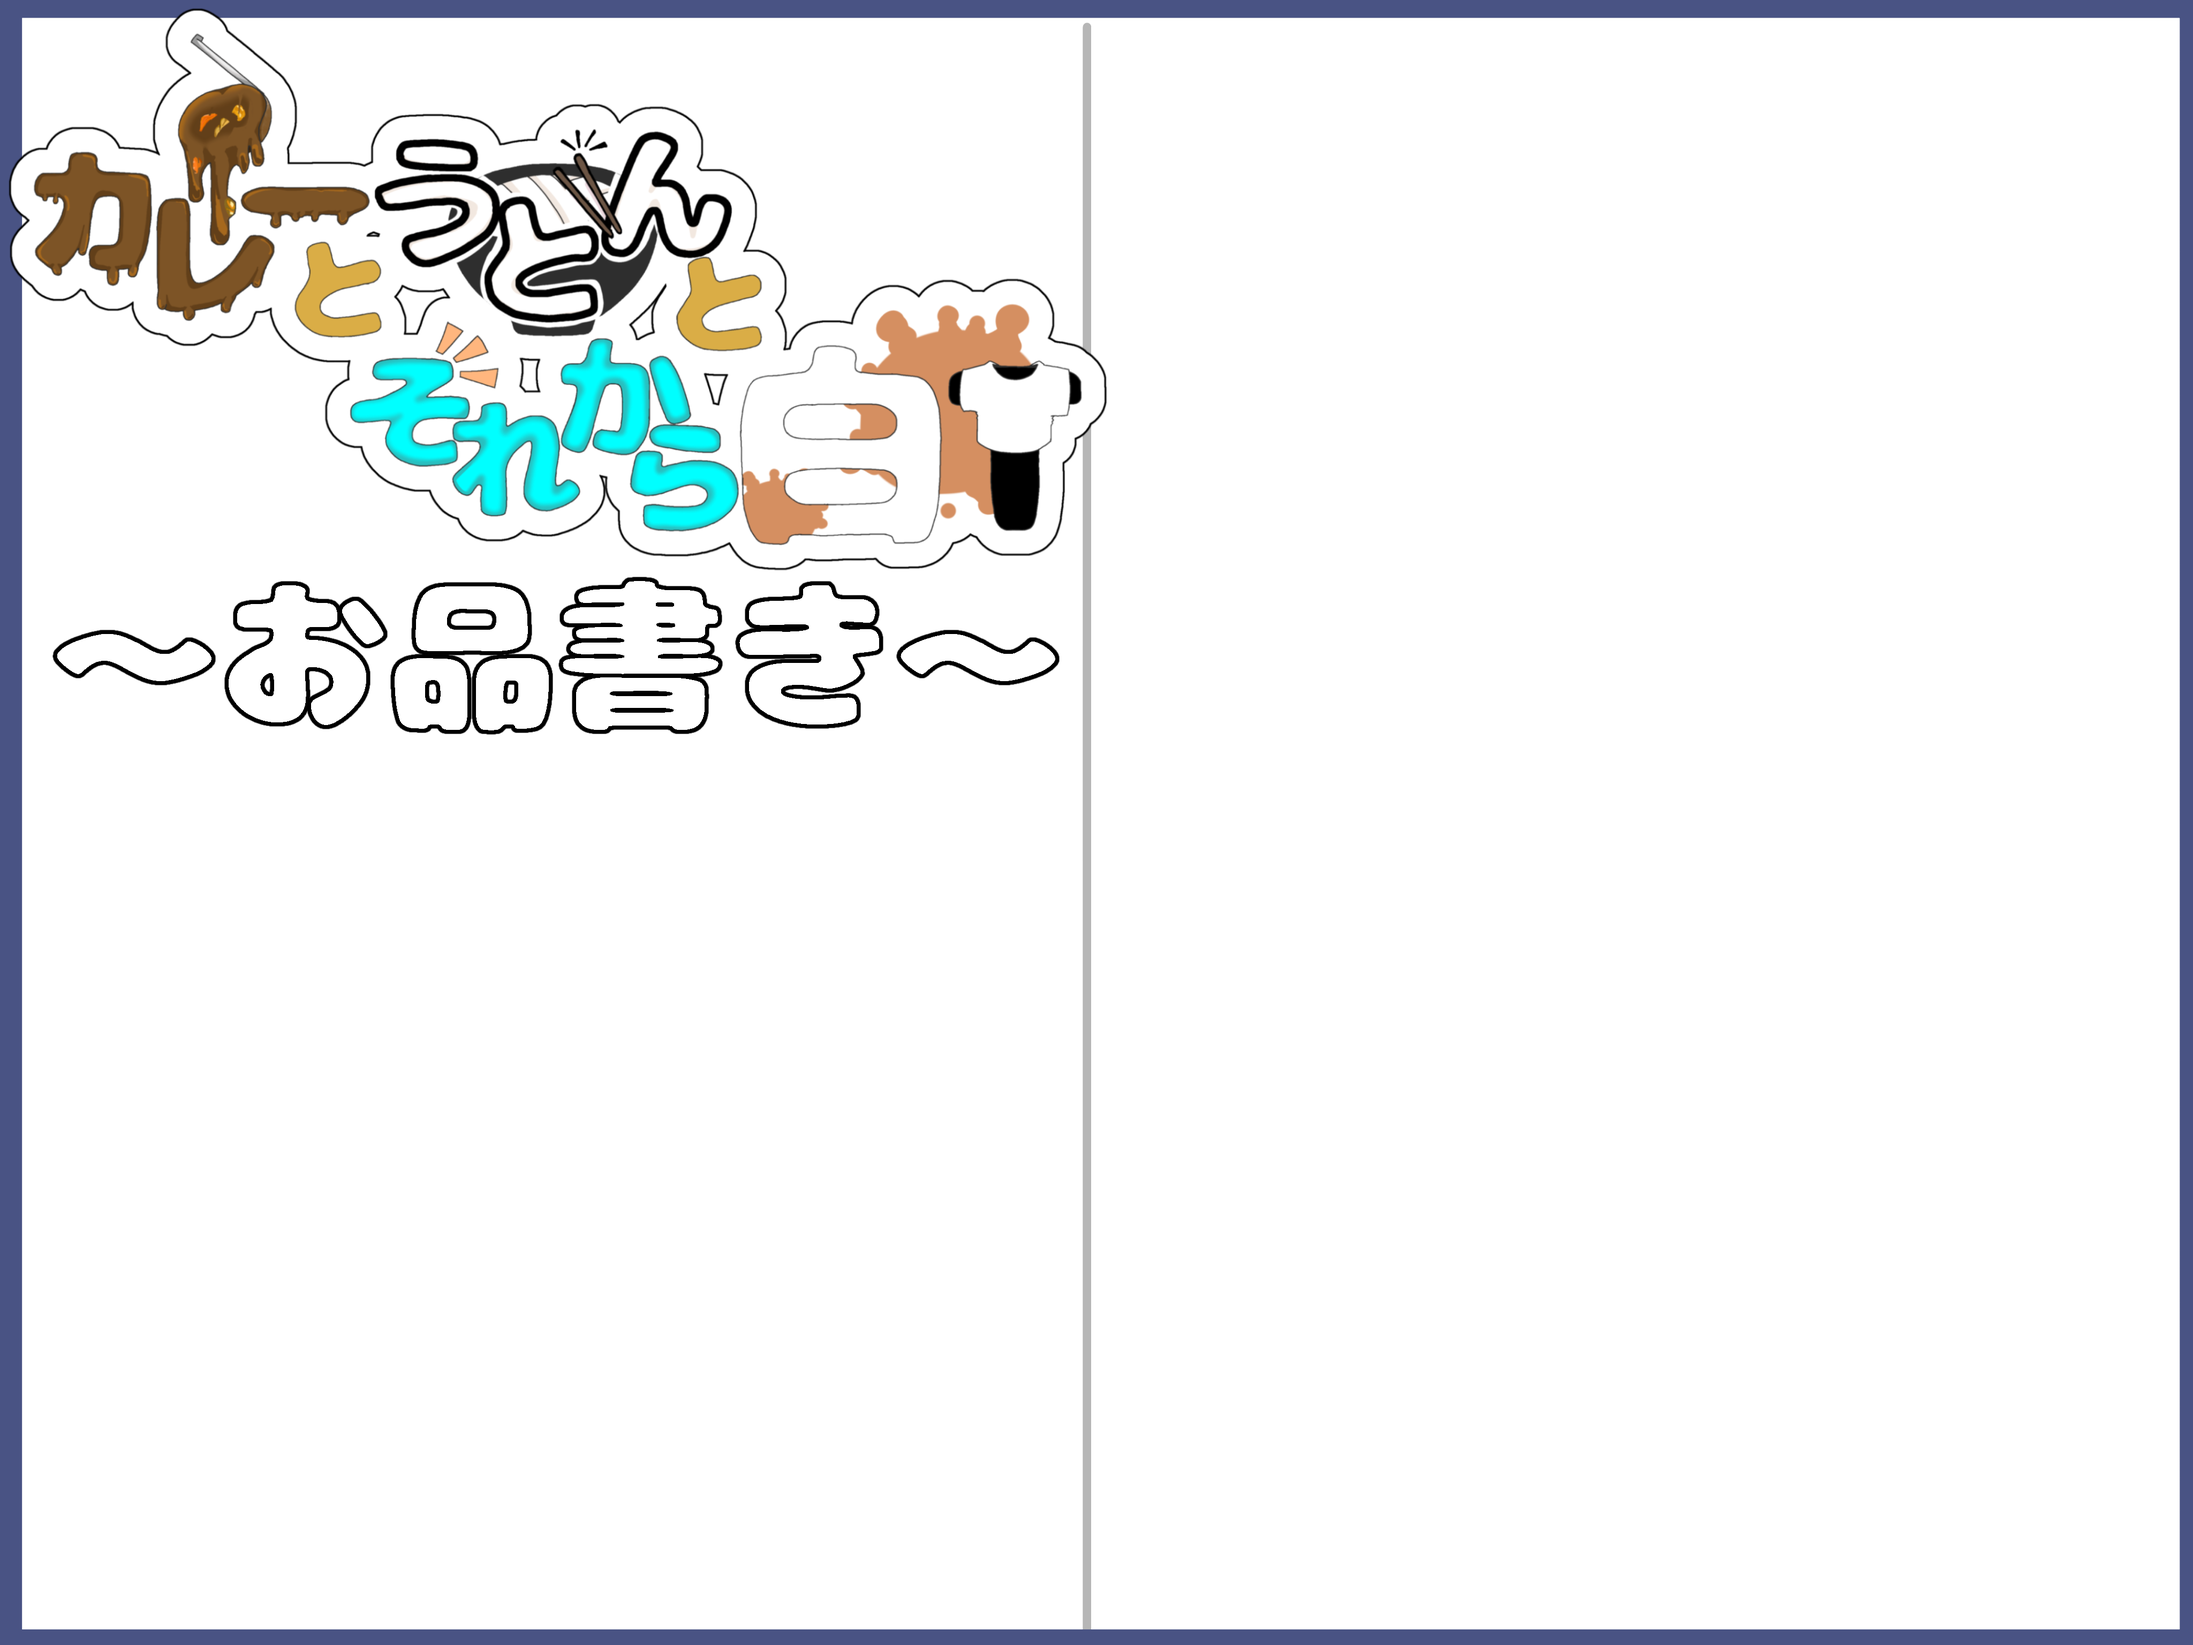
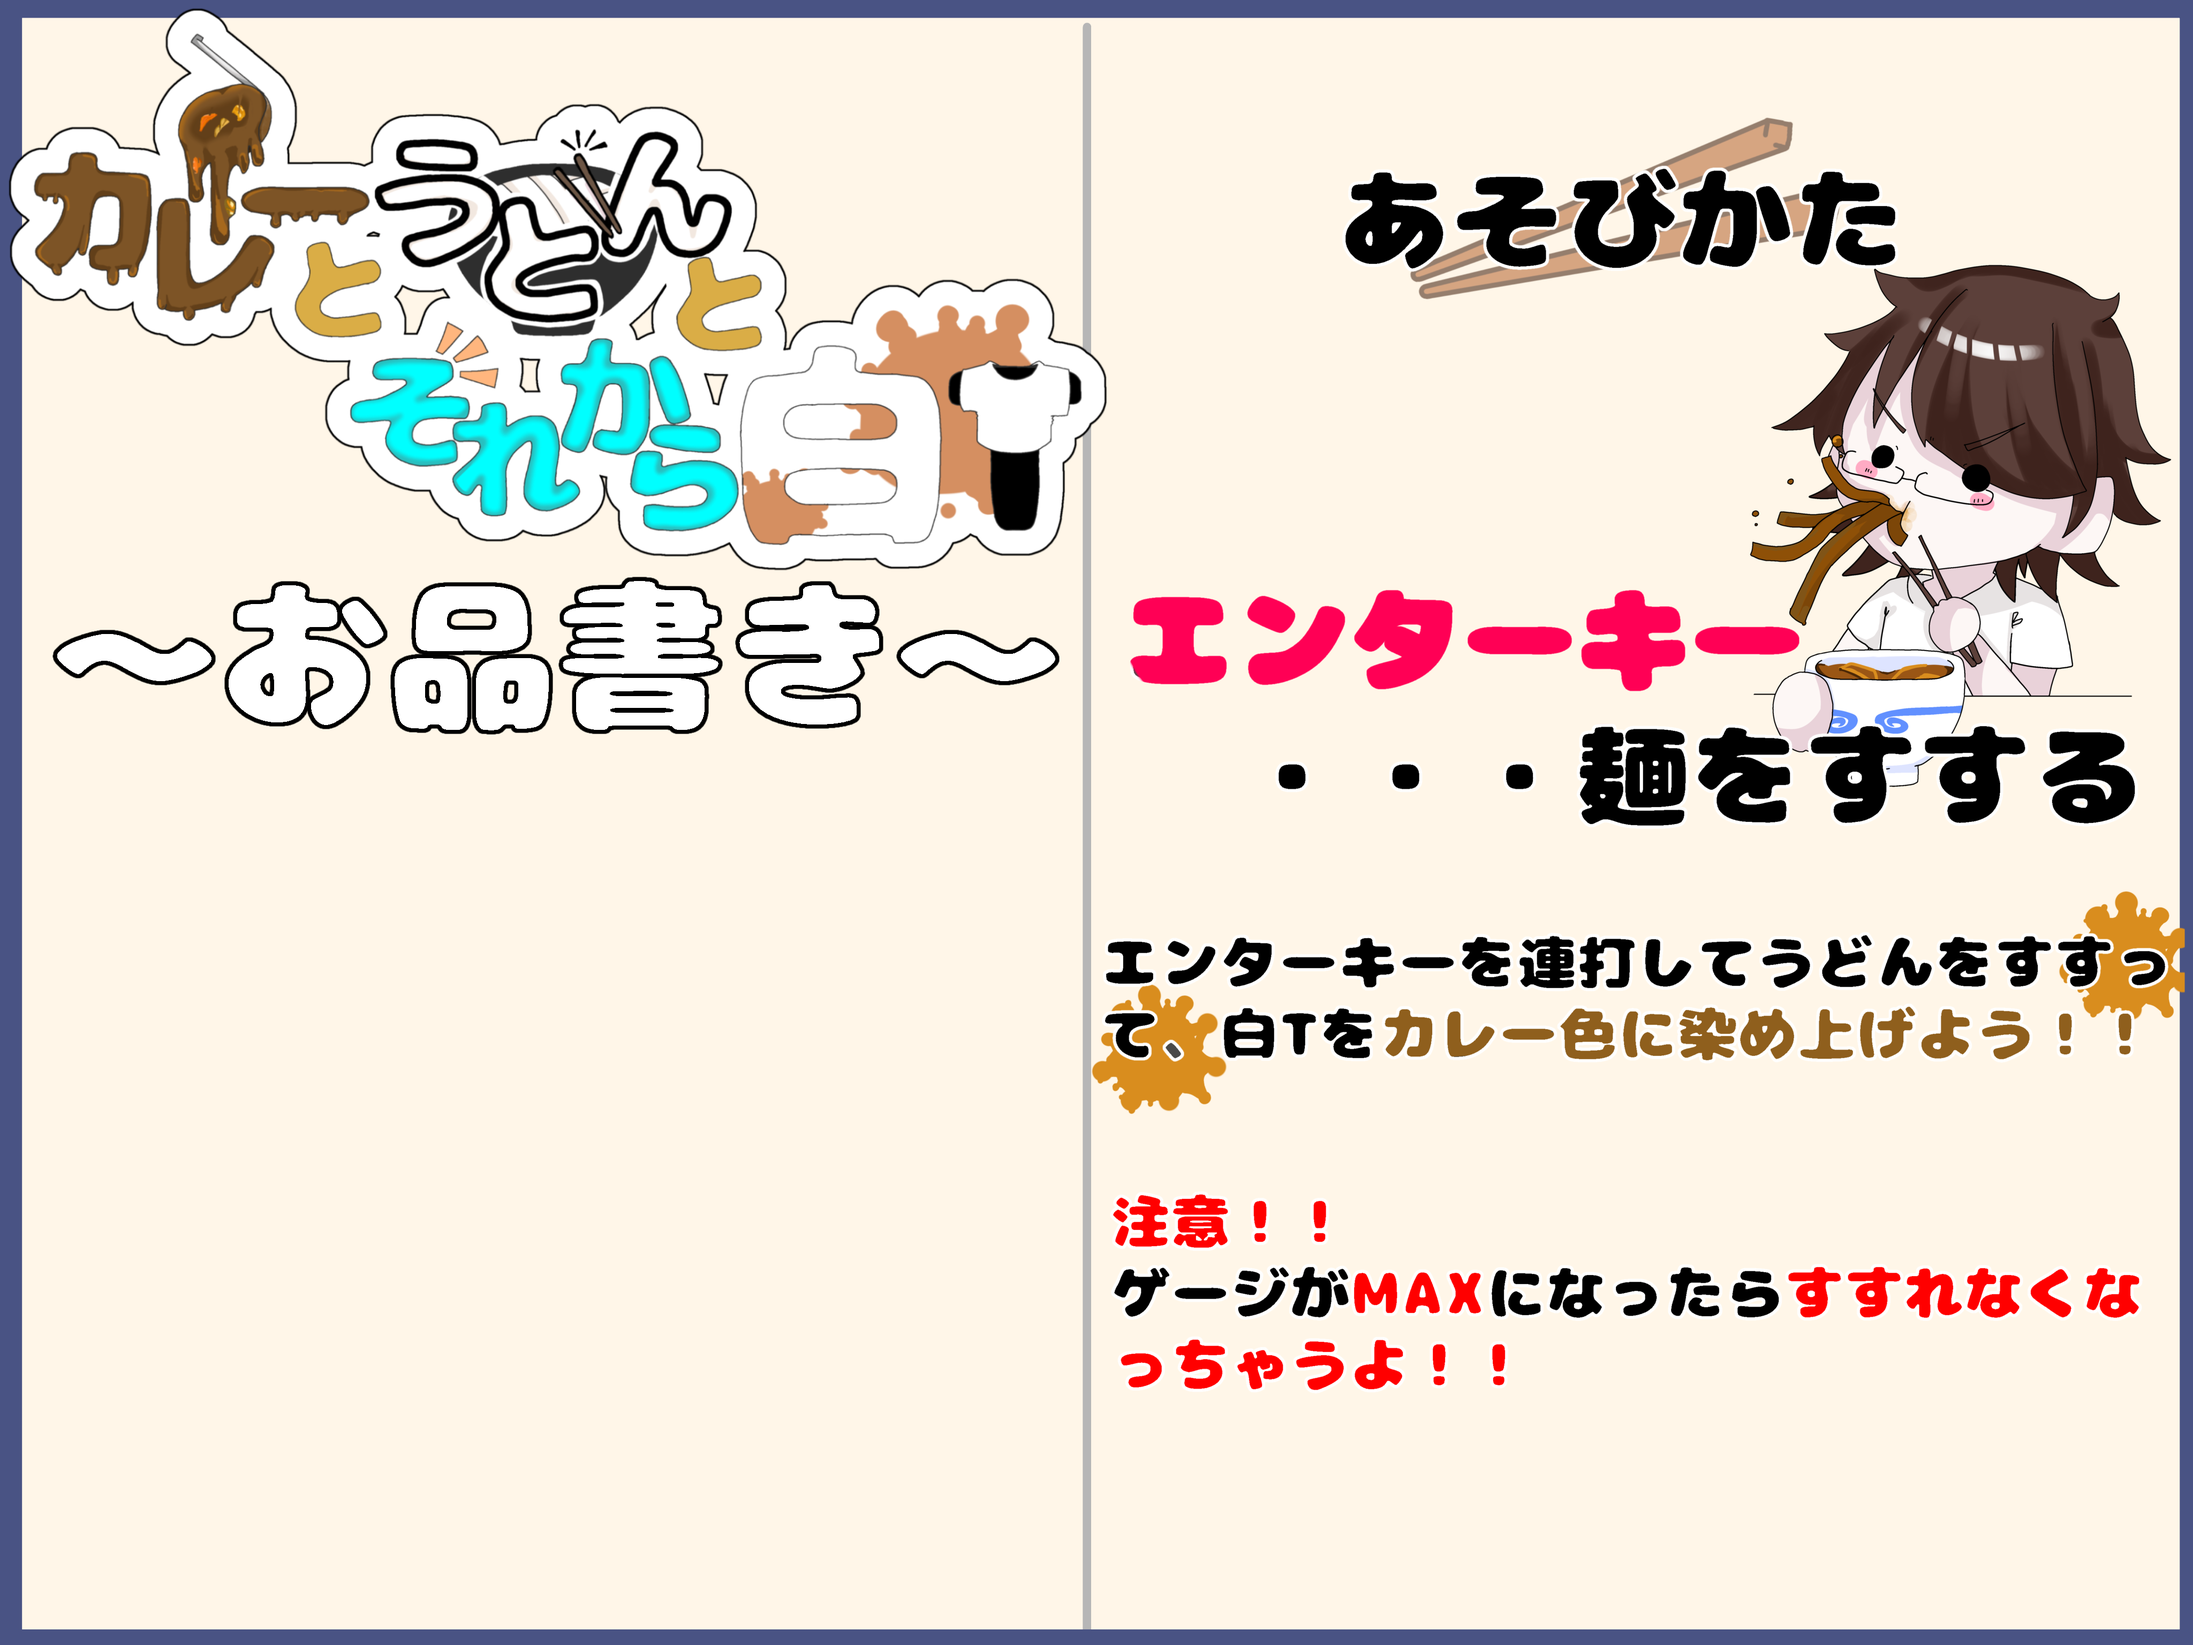
リザルトにシャツが移るように

diff --git a/Src/Scene/SceneBase.cpp b/Src/Scene/SceneBase.cpp
@@ -1,7 +1,8 @@
 #include"../Score/Rash.h"
+#include"../Score/TshirtsState.h"
 #include "SceneBase.h"
 
-SceneBase::SceneBase(void) : rash_(Rash::GetInstance())
+SceneBase::SceneBase(void) : rash_(Rash::GetInstance()), tState_(TshirtsState::GetInstance())
 {
 }
 
